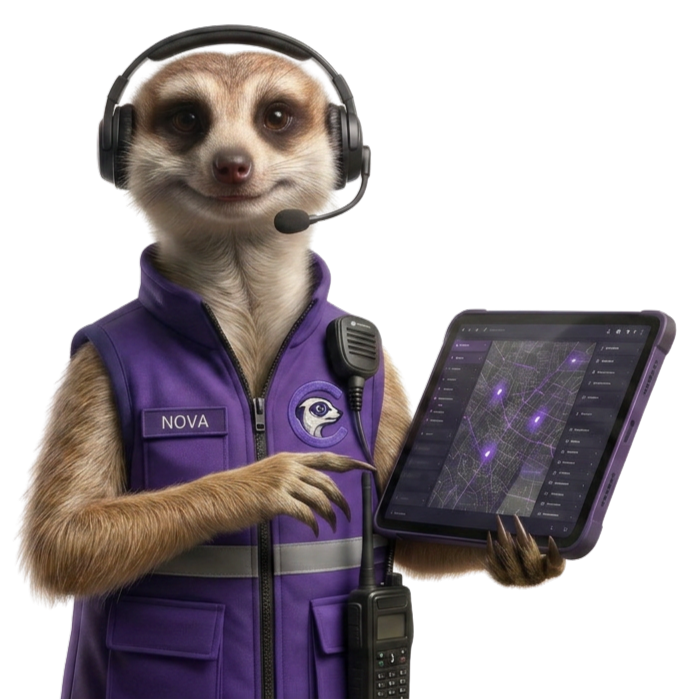
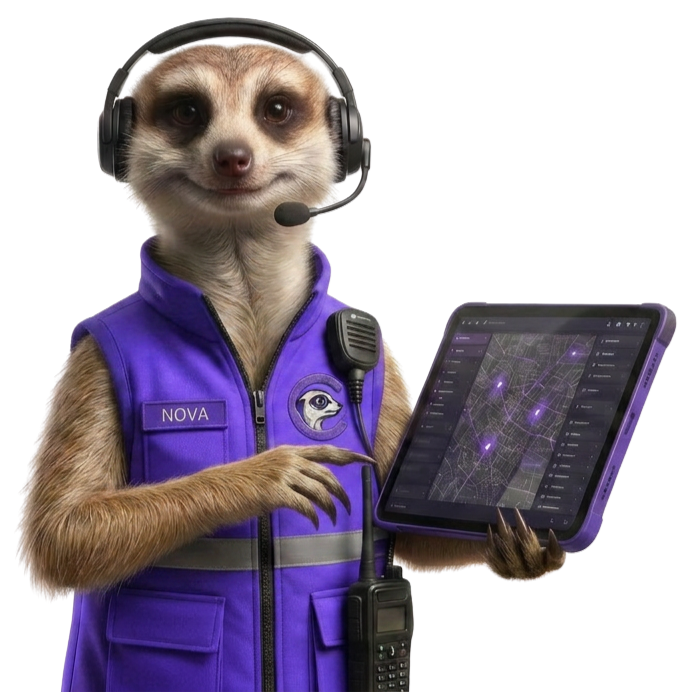
fix: registro — stepper compacto en móvil, dividers alineados, ops en segunda línea, cards dark theme consistente
- Stepper: círculos w-6 móvil / w-8 desktop, labels text-[9px] sm:text-xs, conectores más cortos
- Tier cards: flex:1 en sección de contenido para que el divider siempre quede abajo
- Texto minutos extra: '+35 ops IA' ahora va en segunda línea
- MeerkatCard: texto fondo oscuro (rgba) + nombre blanco + rol lightenColor — consistente con directores
- Director cards (Nox/Niva): imagen área #FFFFFF (elimina banda lavanda #F4F0FF)
- Nova: nueva foto con chaleco actualizado

Changed region(s): [[0.0306, 0.0, 1.0, 1.0], [0.6419, 0.698, 0.6725, 0.7283]]

diff --git a/src/app/registro/page.tsx b/src/app/registro/page.tsx
@@ -394,13 +394,13 @@ function MeerkatCard({
       }}
     >
       {/* Image area */}
-      <div style={{ width: '100%', aspectRatio: '1', position: 'relative', overflow: 'hidden', background: '#F4F0FF' }}>
+      <div style={{ width: '100%', aspectRatio: '1', position: 'relative', overflow: 'hidden', background: '#FFFFFF' }}>
         {hasImg ? (
           <img
             src={role.imagen!}
             alt={role.nombre}
             onError={() => setErr(true)}
-            style={{ width: '100%', height: '100%', objectFit: 'contain', objectPosition: 'bottom center', padding: '6px 6px 0' }}
+            style={{ width: '100%', height: '100%', objectFit: 'contain', objectPosition: 'bottom center' }}
           />
         ) : isCustom ? (
           <div style={{ width: '100%', height: '100%', background: '#0a0618', display: 'flex', alignItems: 'center', justifyContent: 'center' }}>
@@ -434,7 +434,7 @@ function MeerkatCard({
 
       {/* Text */}
       <div style={{ padding: '10px 8px 12px', width: '100%', background: 'rgba(255,255,255,0.07)' }}>
-        <div style={{ fontWeight: 700, fontSize: 15, color: '#fff', lineHeight: 1.2 }}>
+        <div style={{ fontWeight: 700, fontSize: 15, color: 'rgba(255,255,255,0.9)', lineHeight: 1.2 }}>
           {role.nombre}
         </div>
         {role.rol && (
@@ -655,7 +655,7 @@ function RegistroInner() {
       <div className={`${step === 4 ? 'max-w-3xl' : 'max-w-2xl'} mx-auto px-4 py-10`} style={{ position: 'relative', zIndex: 1 }}>
 
         {/* Step indicator — 4 steps */}
-        <div className="flex items-center justify-center gap-0 mb-10">
+        <div className="flex items-center justify-center gap-0 mb-6 sm:mb-10">
           {STEP_LABELS.map((label, i) => {
             const n      = (i + 1) as 1 | 2 | 3 | 4;
             const done   = step > n;
@@ -669,15 +669,15 @@ function RegistroInner() {
                   className="flex flex-col items-center"
                   style={{ cursor: canNav ? 'pointer' : 'default', background: 'none', border: 'none', padding: 0 }}
                 >
-                  <div className="w-8 h-8 rounded-full flex items-center justify-center text-xs font-bold transition-all"
+                  <div className="w-6 h-6 sm:w-8 sm:h-8 rounded-full flex items-center justify-center text-[10px] sm:text-xs font-bold transition-all"
                     style={{
                       background: done ? '#6C3BFF' : active ? 'rgba(108,59,255,0.3)' : 'rgba(255,255,255,0.05)',
                       border:     `2px solid ${done || active ? '#6C3BFF' : 'rgba(255,255,255,0.1)'}`,
                       color:      done || active ? '#fff' : 'rgba(255,255,255,0.3)',
                     }}>
-                    {done ? <Check size={13} /> : n}
+                    {done ? <Check size={11} /> : n}
                   </div>
-                  <span className="text-xs mt-1.5 font-medium"
+                  <span className="text-[9px] sm:text-xs mt-1 sm:mt-1.5 font-medium"
                     style={{
                       color:              active ? '#9B6DFF' : done ? 'rgba(255,255,255,0.5)' : 'rgba(255,255,255,0.25)',
                       textDecoration:     canNav ? 'underline' : 'none',
@@ -687,7 +687,7 @@ function RegistroInner() {
                   </span>
                 </button>
                 {i < 3 && (
-                  <div className="w-10 sm:w-14 h-px mx-1 mb-4"
+                  <div className="w-4 sm:w-14 h-px mx-0.5 sm:mx-1 mb-4"
                     style={{ background: step > n + 1 ? '#6C3BFF' : 'rgba(255,255,255,0.08)' }} />
                 )}
               </div>
@@ -737,7 +737,7 @@ function RegistroInner() {
                       }}
                     >
                       {/* Image */}
-                      <div style={{ width: '100%', aspectRatio: '1', position: 'relative', overflow: 'hidden', background: '#F4F0FF' }}>
+                      <div style={{ width: '100%', aspectRatio: '1', position: 'relative', overflow: 'hidden', background: '#FFFFFF' }}>
                         <img
                           src={dir.imagen!}
                           alt={dir.nombre}
@@ -1064,7 +1064,7 @@ function RegistroInner() {
                         </div>
                       )}
                       <div className="flex flex-col items-center text-center flex-1">
-                        <div className="w-full px-4 pt-5 pb-4">
+                        <div className="w-full px-4 pt-5 pb-4" style={{ flex: 1 }}>
                           <div className="w-5 h-5 rounded-full border-2 flex items-center justify-center mx-auto mb-3 transition-all"
                             style={{ borderColor: sel ? '#6C3BFF' : 'rgba(255,255,255,0.2)', background: sel ? '#6C3BFF' : 'transparent' }}>
                             {sel && <div className="w-2 h-2 rounded-full bg-white" />}
@@ -1108,7 +1108,7 @@ function RegistroInner() {
                         </div>
                       )}
                       <div className="flex flex-col items-center text-center flex-1">
-                        <div className="w-full px-4 pt-5 pb-4">
+                        <div className="w-full px-4 pt-5 pb-4" style={{ flex: 1 }}>
                           <div className="w-5 h-5 rounded-full border-2 flex items-center justify-center mx-auto mb-3 transition-all"
                             style={{ borderColor: sel ? roleColor : 'rgba(255,255,255,0.2)', background: sel ? roleColor : 'transparent' }}>
                             {sel && <div className="w-2 h-2 rounded-full bg-white" />}
@@ -1131,7 +1131,8 @@ function RegistroInner() {
             <p className="text-xs mb-6 text-center" style={{ color: 'rgba(255,255,255,0.28)' }}>
               {isCoordinator
                 ? 'Nox coordina sin llamadas. Las operaciones extra tienen costo adicional.'
-                : 'Minutos extra: $12.99 MXN / min · +35 ops IA por cada 100 min adicionales'
+                : <>Minutos extra: $12.99 MXN / min<br />+35 ops IA por cada 100 min adicionales</>
+
               }
             </p>
 
